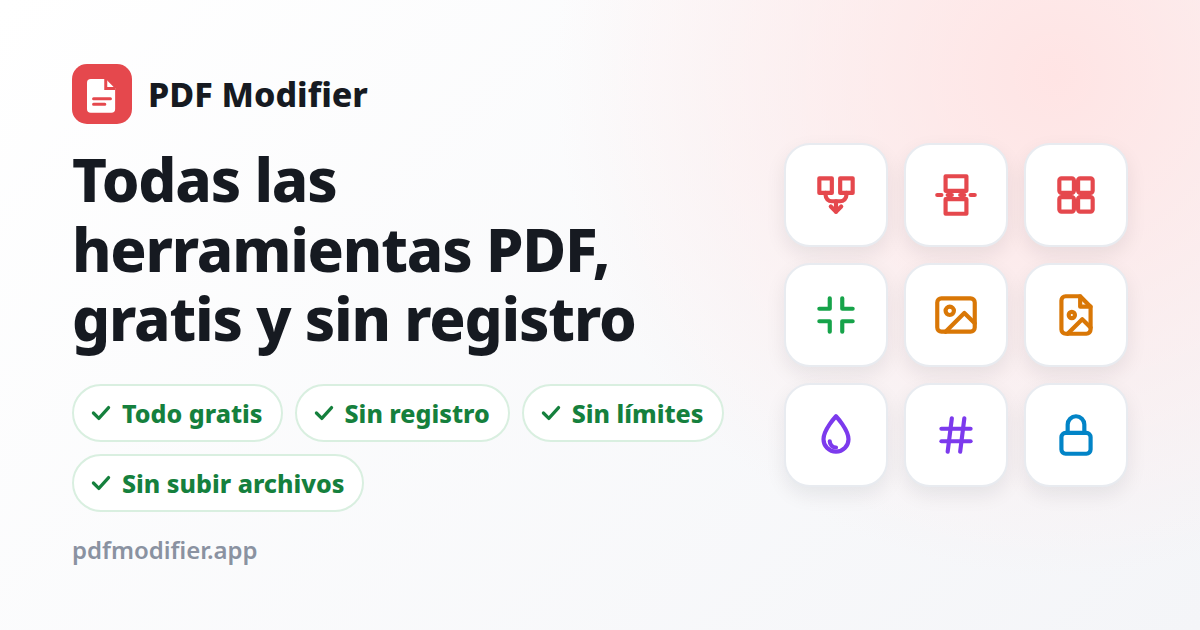
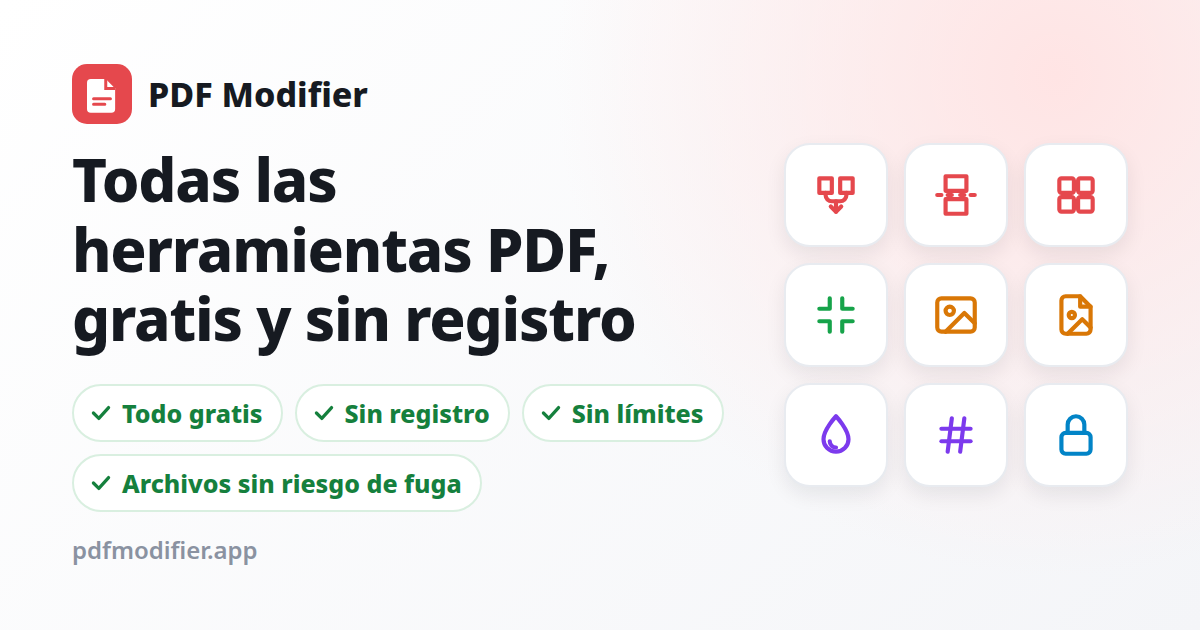
Use the "no worry about leaks" promise badge in every language
Claude-Session: https://claude.ai/code/session_01DBZHCCCbK2Z52E8nZtcXw8

Changed region(s): [[0.0925, 0.754, 0.4008, 0.8143], [0.3083, 0.6937, 0.37, 0.7238]]

diff --git a/src/i18n/vi.ts b/src/i18n/vi.ts
@@ -86,7 +86,7 @@ export const vi: Dictionary = {
     ],
   },
   promise: {
-    points: ['Miễn phí hoàn toàn', 'Không cần đăng ký', 'Không giới hạn', 'Không tải lên'],
+    points: ['Miễn phí hoàn toàn', 'Không cần đăng ký', 'Không giới hạn', 'Không lo lộ tệp'],
     sentence: 'Miễn phí, không cần đăng ký, không giới hạn và tệp của bạn không bao giờ bị tải lên.',
   },
   toolPage: {

diff --git a/src/i18n/ja.ts b/src/i18n/ja.ts
@@ -86,7 +86,7 @@ export const ja: Dictionary = {
     ],
   },
   promise: {
-    points: ['全機能無料', '登録不要', '回数制限なし', 'アップロードなし'],
+    points: ['全機能無料', '登録不要', '回数制限なし', '流出の心配なし'],
     sentence: '無料・登録不要・回数制限なしで、ファイルはアップロードされません。',
   },
   toolPage: {

diff --git a/src/i18n/fr.ts b/src/i18n/fr.ts
@@ -86,7 +86,7 @@ export const fr: Dictionary = {
     ],
   },
   promise: {
-    points: ['Tout est gratuit', 'Sans inscription', 'Sans limite', 'Aucun téléversement'],
+    points: ['Tout est gratuit', 'Sans inscription', 'Sans limite', 'Aucun risque de fuite'],
     sentence: 'Gratuit, sans inscription ni limite, et vos fichiers ne sont jamais téléversés.',
   },
   toolPage: {

diff --git a/src/i18n/it.ts b/src/i18n/it.ts
@@ -86,7 +86,7 @@ export const it: Dictionary = {
     ],
   },
   promise: {
-    points: ['Tutto gratis', 'Senza registrazione', 'Senza limiti', 'Nessun caricamento'],
+    points: ['Tutto gratis', 'Senza registrazione', 'Senza limiti', 'Nessun rischio di fuga'],
     sentence: 'Gratis, senza registrazione né limiti, e i tuoi file non vengono mai caricati.',
   },
   toolPage: {

diff --git a/src/i18n/zh-cn.ts b/src/i18n/zh-cn.ts
@@ -86,7 +86,7 @@ export const zhCn: Dictionary = {
     ],
   },
   promise: {
-    points: ['全部功能免费', '无需注册', '不限次数', '不上传文件'],
+    points: ['全部功能免费', '无需注册', '不限次数', '不怕文件泄露'],
     sentence: '免费、无需注册、不限次数，文件不会上传到服务器。',
   },
   toolPage: {

diff --git a/src/i18n/de.ts b/src/i18n/de.ts
@@ -86,7 +86,7 @@ export const de: Dictionary = {
     ],
   },
   promise: {
-    points: ['Alles kostenlos', 'Ohne Anmeldung', 'Ohne Limits', 'Kein Upload'],
+    points: ['Alles kostenlos', 'Ohne Anmeldung', 'Ohne Limits', 'Keine Datenlecks'],
     sentence: 'Kostenlos, ohne Anmeldung und ohne Limits – Ihre Dateien werden nie hochgeladen.',
   },
   toolPage: {

diff --git a/src/i18n/tr.ts b/src/i18n/tr.ts
@@ -86,7 +86,7 @@ export const tr: Dictionary = {
     ],
   },
   promise: {
-    points: ['Tamamen ücretsiz', 'Üyelik yok', 'Sınır yok', 'Yükleme yok'],
+    points: ['Tamamen ücretsiz', 'Üyelik yok', 'Sınır yok', 'Sızıntı endişesi yok'],
     sentence: 'Ücretsiz, üye olmadan ve sınırsız; dosyalarınız asla yüklenmez.',
   },
   toolPage: {

diff --git a/src/i18n/zh-tw.ts b/src/i18n/zh-tw.ts
@@ -86,7 +86,7 @@ export const zhTw: Dictionary = {
     ],
   },
   promise: {
-    points: ['所有功能免費', '免註冊', '不限次數', '不上傳檔案'],
+    points: ['所有功能免費', '免註冊', '不限次數', '不怕檔案外洩'],
     sentence: '免費、免註冊、不限次數，檔案不會上傳到伺服器。',
   },
   toolPage: {

diff --git a/src/i18n/es.ts b/src/i18n/es.ts
@@ -86,7 +86,7 @@ export const es: Dictionary = {
     ],
   },
   promise: {
-    points: ['Todo gratis', 'Sin registro', 'Sin límites', 'Sin subir archivos'],
+    points: ['Todo gratis', 'Sin registro', 'Sin límites', 'Archivos sin riesgo de fuga'],
     sentence: 'Gratis, sin registro ni límites, y tus archivos nunca se suben.',
   },
   toolPage: {

diff --git a/src/i18n/id.ts b/src/i18n/id.ts
@@ -86,7 +86,7 @@ export const id: Dictionary = {
     ],
   },
   promise: {
-    points: ['Semua gratis', 'Tanpa daftar', 'Tanpa batas', 'Tanpa unggah'],
+    points: ['Semua gratis', 'Tanpa daftar', 'Tanpa batas', 'File aman, tidak bocor'],
     sentence: 'Gratis, tanpa daftar dan tanpa batas, dan file Anda tidak pernah diunggah.',
   },
   toolPage: {

diff --git a/src/i18n/pt.ts b/src/i18n/pt.ts
@@ -86,7 +86,7 @@ export const pt: Dictionary = {
     ],
   },
   promise: {
-    points: ['Tudo grátis', 'Sem cadastro', 'Sem limites', 'Sem upload'],
+    points: ['Tudo grátis', 'Sem cadastro', 'Sem limites', 'Sem risco de vazamento'],
     sentence: 'Grátis, sem cadastro e sem limites, e seus arquivos nunca são enviados.',
   },
   toolPage: {

diff --git a/src/i18n/en.ts b/src/i18n/en.ts
@@ -86,7 +86,7 @@ export const en: Dictionary = {
     ],
   },
   promise: {
-    points: ['Every tool free', 'No sign-up', 'No limits', 'No uploads'],
+    points: ['Every tool free', 'No sign-up', 'No limits', 'Files stay private'],
     sentence: 'Free with no sign-up and no limits — your files are never uploaded.',
   },
   toolPage: {
